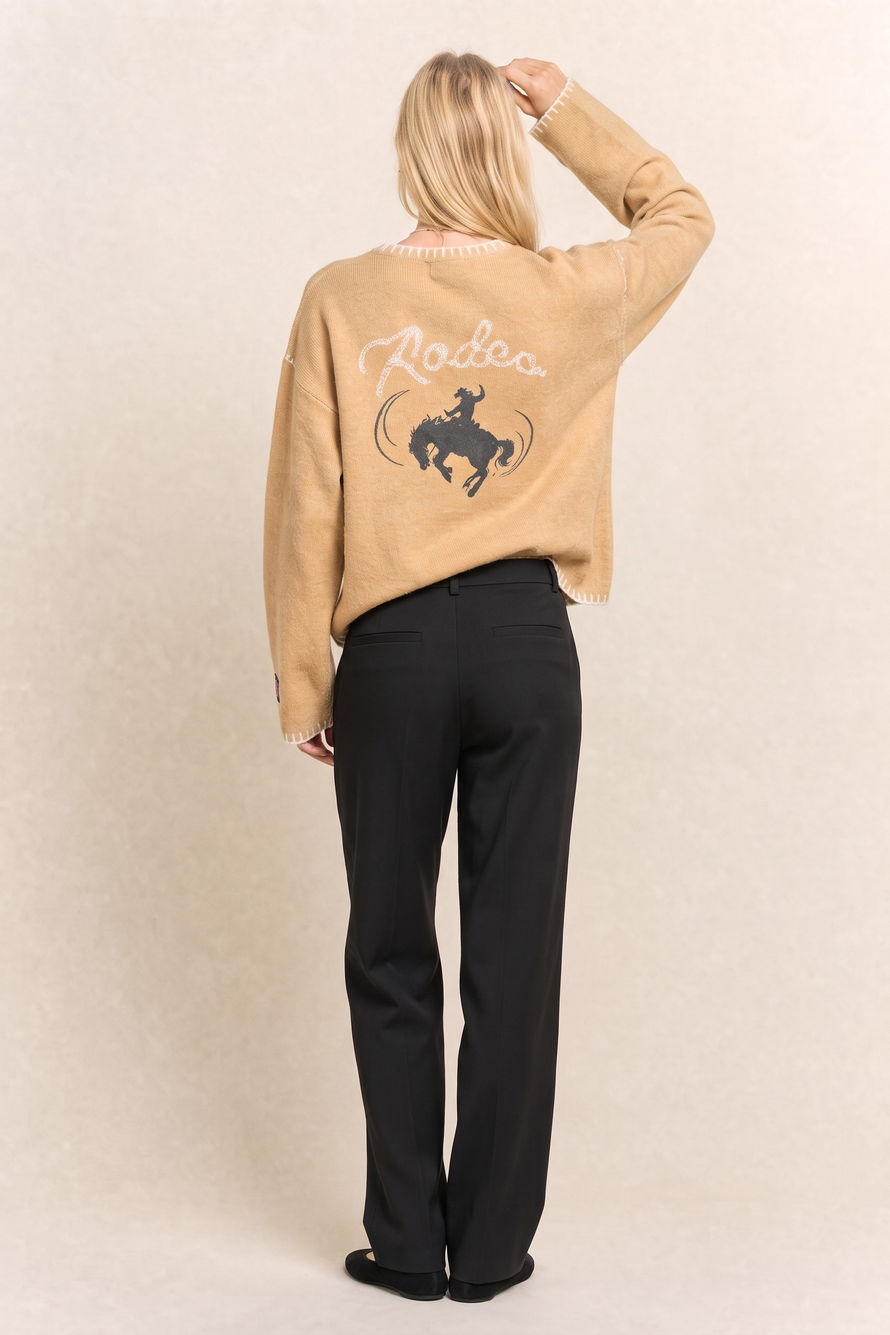
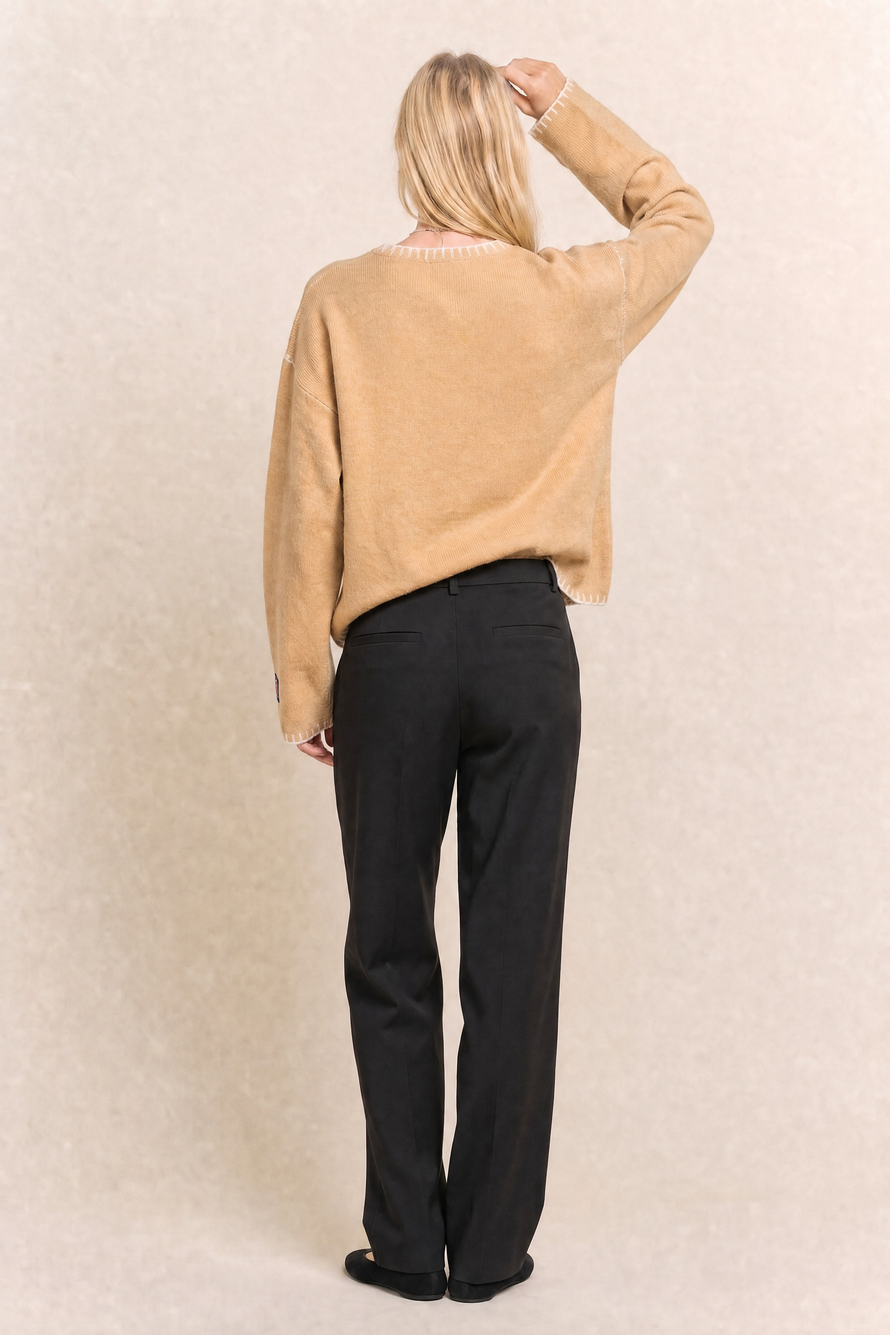
wardrobe plates: plain knit backs (front print erased) on 44-46/49-51; back views added for 39 and 47

diff --git a/lib/models-static-manifest.ts b/lib/models-static-manifest.ts
@@ -1279,6 +1279,10 @@ export const STATIC_HUMAN_MODELS = [
         "filename": "front.jpg",
         "subdir": "",
         "views": {
+          "back": {
+            "filename": "back.jpg",
+            "publicPath": "/models/crop 39/back.jpg"
+          },
           "front": {
             "filename": "front.jpg",
             "publicPath": "/models/crop 39/front.jpg"
@@ -1563,6 +1567,10 @@ export const STATIC_HUMAN_MODELS = [
         "filename": "front.jpg",
         "subdir": "",
         "views": {
+          "back": {
+            "filename": "back.jpg",
+            "publicPath": "/models/crop 47/back.jpg"
+          },
           "front": {
             "filename": "front.jpg",
             "publicPath": "/models/crop 47/front.jpg"
@@ -4777,6 +4785,10 @@ export const STATIC_HUMAN_MODELS = [
         "filename": "front.jpg",
         "subdir": "",
         "views": {
+          "back": {
+            "filename": "back.jpg",
+            "publicPath": "/models/studio 39/back.jpg"
+          },
           "front": {
             "filename": "front.jpg",
             "publicPath": "/models/studio 39/front.jpg"
@@ -5093,6 +5105,10 @@ export const STATIC_HUMAN_MODELS = [
         "filename": "front.jpg",
         "subdir": "",
         "views": {
+          "back": {
+            "filename": "back.jpg",
+            "publicPath": "/models/studio 47/back.jpg"
+          },
           "front": {
             "filename": "front.jpg",
             "publicPath": "/models/studio 47/front.jpg"
